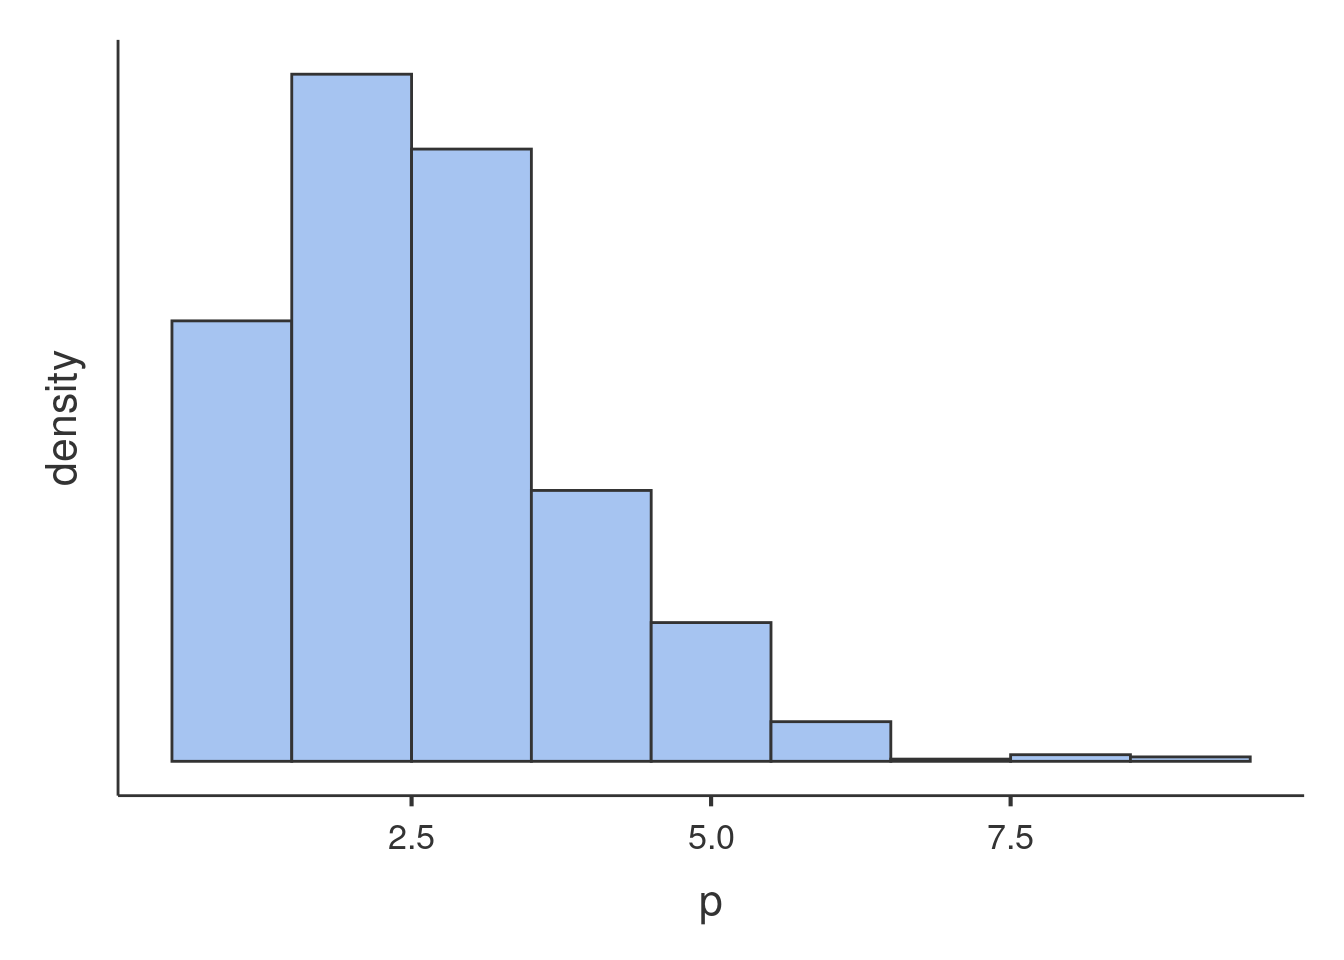
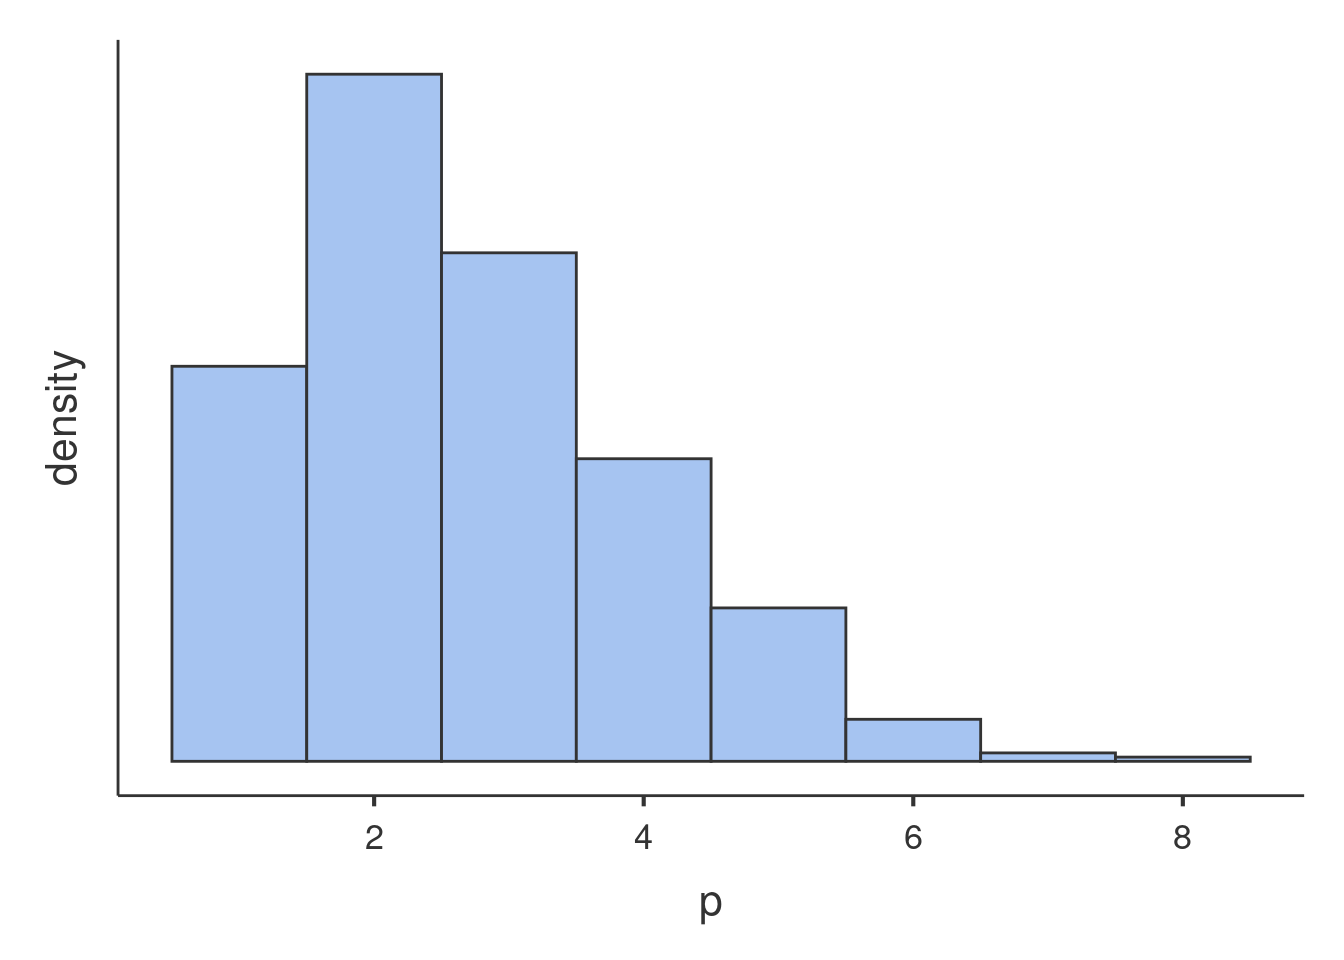
updates

diff --git a/docs/book/gzlm.html b/docs/book/gzlm.html
@@ -333,107 +333,51 @@ f(\hat{y_i})=a+b x_i
 \]</span>
 In addition to predicting a transformation of the dependent variable, the generalized linear model does not assume the dependent variable to be normally distributed, but allows assuming different families of distribution: <a href='https://en.wikipedia.org/wiki/Binomial_distribution' target='_blank'>Binomial</a>, <a href='https://en.wikipedia.org/wiki/Multinomial_distribution' target='_blank'>multinomial</a>, <a href='Poisson distribution' target='_blank'>Poisson</a>, etc.</p>
 <p>Combining a particular link function with a distribution makes a particular application of the generalized linear model. The combination of link function and distribution makes a particular application a model suitable for predicting a particular type of dependent variable. Here is a brief recap of the generalized linear models that can be estimated with <span class="modulename">GAMLj</span>.</p>
-<table class="gmisc_table" style="border-collapse: collapse; margin-top: 1em; margin-bottom: 1em;">
+<table class='gmisc_table' style='border-collapse: collapse; margin-top: 1em; margin-bottom: 1em;' >
 <thead>
 <tr>
-<th style="font-weight: 900; border-bottom: 1px solid grey; border-top: 2px solid grey; text-align: center;">
-Model
-</th>
-<th style="font-weight: 900; border-bottom: 1px solid grey; border-top: 2px solid grey; text-align: center;">
-Link Function
-</th>
-<th style="font-weight: 900; border-bottom: 1px solid grey; border-top: 2px solid grey; text-align: center;">
-Distribution
-</th>
-<th style="font-weight: 900; border-bottom: 1px solid grey; border-top: 2px solid grey; text-align: center;">
-DV type
-</th>
+<th style='font-weight: 900; border-bottom: 1px solid grey; border-top: 2px solid grey; text-align: center;'>Model</th>
+<th style='font-weight: 900; border-bottom: 1px solid grey; border-top: 2px solid grey; text-align: center;'>Link Function</th>
+<th style='font-weight: 900; border-bottom: 1px solid grey; border-top: 2px solid grey; text-align: center;'>Distribution</th>
+<th style='font-weight: 900; border-bottom: 1px solid grey; border-top: 2px solid grey; text-align: center;'>DV type</th>
 </tr>
 </thead>
 <tbody>
 <tr>
-<td style="text-align: center;">
-Logistic Model
-</td>
-<td style="text-align: center;">
-Logit
-</td>
-<td style="text-align: center;">
-Binomial
-</td>
-<td style="text-align: center;">
-Dichotomous
-</td>
+<td style='text-align: center;'>Logistic Model</td>
+<td style='text-align: center;'>Logit</td>
+<td style='text-align: center;'>Binomial</td>
+<td style='text-align: center;'>Dichotomous</td>
 </tr>
 <tr>
-<td style="text-align: center;">
-Probit Model
-</td>
-<td style="text-align: center;">
-Cumulative normal
-</td>
-<td style="text-align: center;">
-Binomial
-</td>
-<td style="text-align: center;">
-Dichotomous
-</td>
+<td style='text-align: center;'>Probit Model</td>
+<td style='text-align: center;'>Cumulative normal</td>
+<td style='text-align: center;'>Binomial</td>
+<td style='text-align: center;'>Dichotomous</td>
 </tr>
 <tr>
-<td style="text-align: center;">
-Multinomial Model
-</td>
-<td style="text-align: center;">
-Logit
-</td>
-<td style="text-align: center;">
-Multinomial
-</td>
-<td style="text-align: center;">
-Categorical
-</td>
+<td style='text-align: center;'>Multinomial Model</td>
+<td style='text-align: center;'>Logit</td>
+<td style='text-align: center;'>Multinomial</td>
+<td style='text-align: center;'>Categorical</td>
 </tr>
 <tr>
-<td style="text-align: center;">
-Ordinal Model
-</td>
-<td style="text-align: center;">
-Cumulative Logit
-</td>
-<td style="text-align: center;">
-Logit
-</td>
-<td style="text-align: center;">
-Ordinal
-</td>
+<td style='text-align: center;'>Ordinal Model</td>
+<td style='text-align: center;'>Cumulative Logit</td>
+<td style='text-align: center;'>Logit</td>
+<td style='text-align: center;'>Ordinal</td>
 </tr>
 <tr>
-<td style="text-align: center;">
-Poisson Model
-</td>
-<td style="text-align: center;">
-Log
-</td>
-<td style="text-align: center;">
-Poisson
-</td>
-<td style="text-align: center;">
-Count (frequencies)
-</td>
+<td style='text-align: center;'>Poisson Model</td>
+<td style='text-align: center;'>Log</td>
+<td style='text-align: center;'>Poisson</td>
+<td style='text-align: center;'>Count (frequencies)</td>
 </tr>
 <tr>
-<td style="border-bottom: 2px solid grey; text-align: center;">
-Negative Binomial Model
-</td>
-<td style="border-bottom: 2px solid grey; text-align: center;">
-Log
-</td>
-<td style="border-bottom: 2px solid grey; text-align: center;">
-Negative binomial
-</td>
-<td style="border-bottom: 2px solid grey; text-align: center;">
-Count (frequencies)
-</td>
+<td style='border-bottom: 2px solid grey; text-align: center;'>Negative Binomial Model</td>
+<td style='border-bottom: 2px solid grey; text-align: center;'>Log</td>
+<td style='border-bottom: 2px solid grey; text-align: center;'>Negative binomial</td>
+<td style='border-bottom: 2px solid grey; text-align: center;'>Count (frequencies)</td>
 </tr>
 </tbody>
 </table>
@@ -611,53 +555,29 @@ Please consult <span class="citation">Leeper (<a href="#ref-thomas" role="doc-bi
 <h3><span class="header-section-number">3.5.1</span> Rationale<a href="gzlm.html#rationale" class="anchor-section" aria-label="Anchor link to header"></a></h3>
 <p>Sooner or later a dependent variable with more than two groups will cross our path. A choice may be added to the experimental outcome, a third group may be necessary to exhaust a classification, a set of products needs to be tested. When the dependent variable features more than two groups, the logistic or probit model cannot be used. It must be generalized into the <em>Multinomial Model</em>. A multinomial model is logically equivalent to estimating a set of logistic regressions, one for each dummy variable (cf. <a href="glm.html#dummies">2.7.2</a> and <a href="a1dummies.html#a1dummies">B</a>) representing the categorical dependent variable.</p>
 <p>Consider a three group variable, with levels A, B and C. To represent it with a set of dummy variables we need 2 dummies.</p>
-<table class="gmisc_table" style="border-collapse: collapse; margin-top: 1em; margin-bottom: 1em;">
+<table class='gmisc_table' style='border-collapse: collapse; margin-top: 1em; margin-bottom: 1em;' >
 <thead>
 <tr>
-<th style="font-weight: 900; border-bottom: 1px solid grey; border-top: 2px solid grey; text-align: center;">
-Levels
-</th>
-<th style="font-weight: 900; border-bottom: 1px solid grey; border-top: 2px solid grey; text-align: center;">
-D1
-</th>
-<th style="font-weight: 900; border-bottom: 1px solid grey; border-top: 2px solid grey; text-align: center;">
-D2
-</th>
+<th style='font-weight: 900; border-bottom: 1px solid grey; border-top: 2px solid grey; text-align: center;'>Levels</th>
+<th style='font-weight: 900; border-bottom: 1px solid grey; border-top: 2px solid grey; text-align: center;'>D1</th>
+<th style='font-weight: 900; border-bottom: 1px solid grey; border-top: 2px solid grey; text-align: center;'>D2</th>
 </tr>
 </thead>
 <tbody>
 <tr>
-<td style="text-align: center;">
-A
-</td>
-<td style="text-align: center;">
-0
-</td>
-<td style="text-align: center;">
-0
-</td>
+<td style='text-align: center;'>A</td>
+<td style='text-align: center;'>0</td>
+<td style='text-align: center;'>0</td>
 </tr>
 <tr>
-<td style="text-align: center;">
-B
-</td>
-<td style="text-align: center;">
-1
-</td>
-<td style="text-align: center;">
-0
-</td>
+<td style='text-align: center;'>B</td>
+<td style='text-align: center;'>1</td>
+<td style='text-align: center;'>0</td>
 </tr>
 <tr>
-<td style="border-bottom: 2px solid grey; text-align: center;">
-C
-</td>
-<td style="border-bottom: 2px solid grey; text-align: center;">
-0
-</td>
-<td style="border-bottom: 2px solid grey; text-align: center;">
-1
-</td>
+<td style='border-bottom: 2px solid grey; text-align: center;'>C</td>
+<td style='border-bottom: 2px solid grey; text-align: center;'>0</td>
+<td style='border-bottom: 2px solid grey; text-align: center;'>1</td>
 </tr>
 </tbody>
 </table>

diff --git a/docs/glmmixed_example2.html b/docs/glmmixed_example2.html
@@ -424,8 +424,8 @@ Generalized Linear Model with Poisson distribition may work. However, we
 can check wheather our distribution is in line with the features of the
 Poisson dist by checking its mean and variance. The Poisson distribution
 has variance equal to the mean, in fact the simulated distribution in
-the histogram has <span class="math inline">\(\bar{x}=1.622\)</span> and
-<span class="math inline">\(s^2=1.671\)</span>. The <code>art</code>
+the histogram has <span class="math inline">\(\bar{x}=1.673\)</span> and
+<span class="math inline">\(s^2=1.704\)</span>. The <code>art</code>
 variable distribution has <span
 class="math inline">\(\bar{x}=1.693\)</span> and <span
 class="math inline">\(s^2=3.71\)</span>, with a ratio variance/mean of
